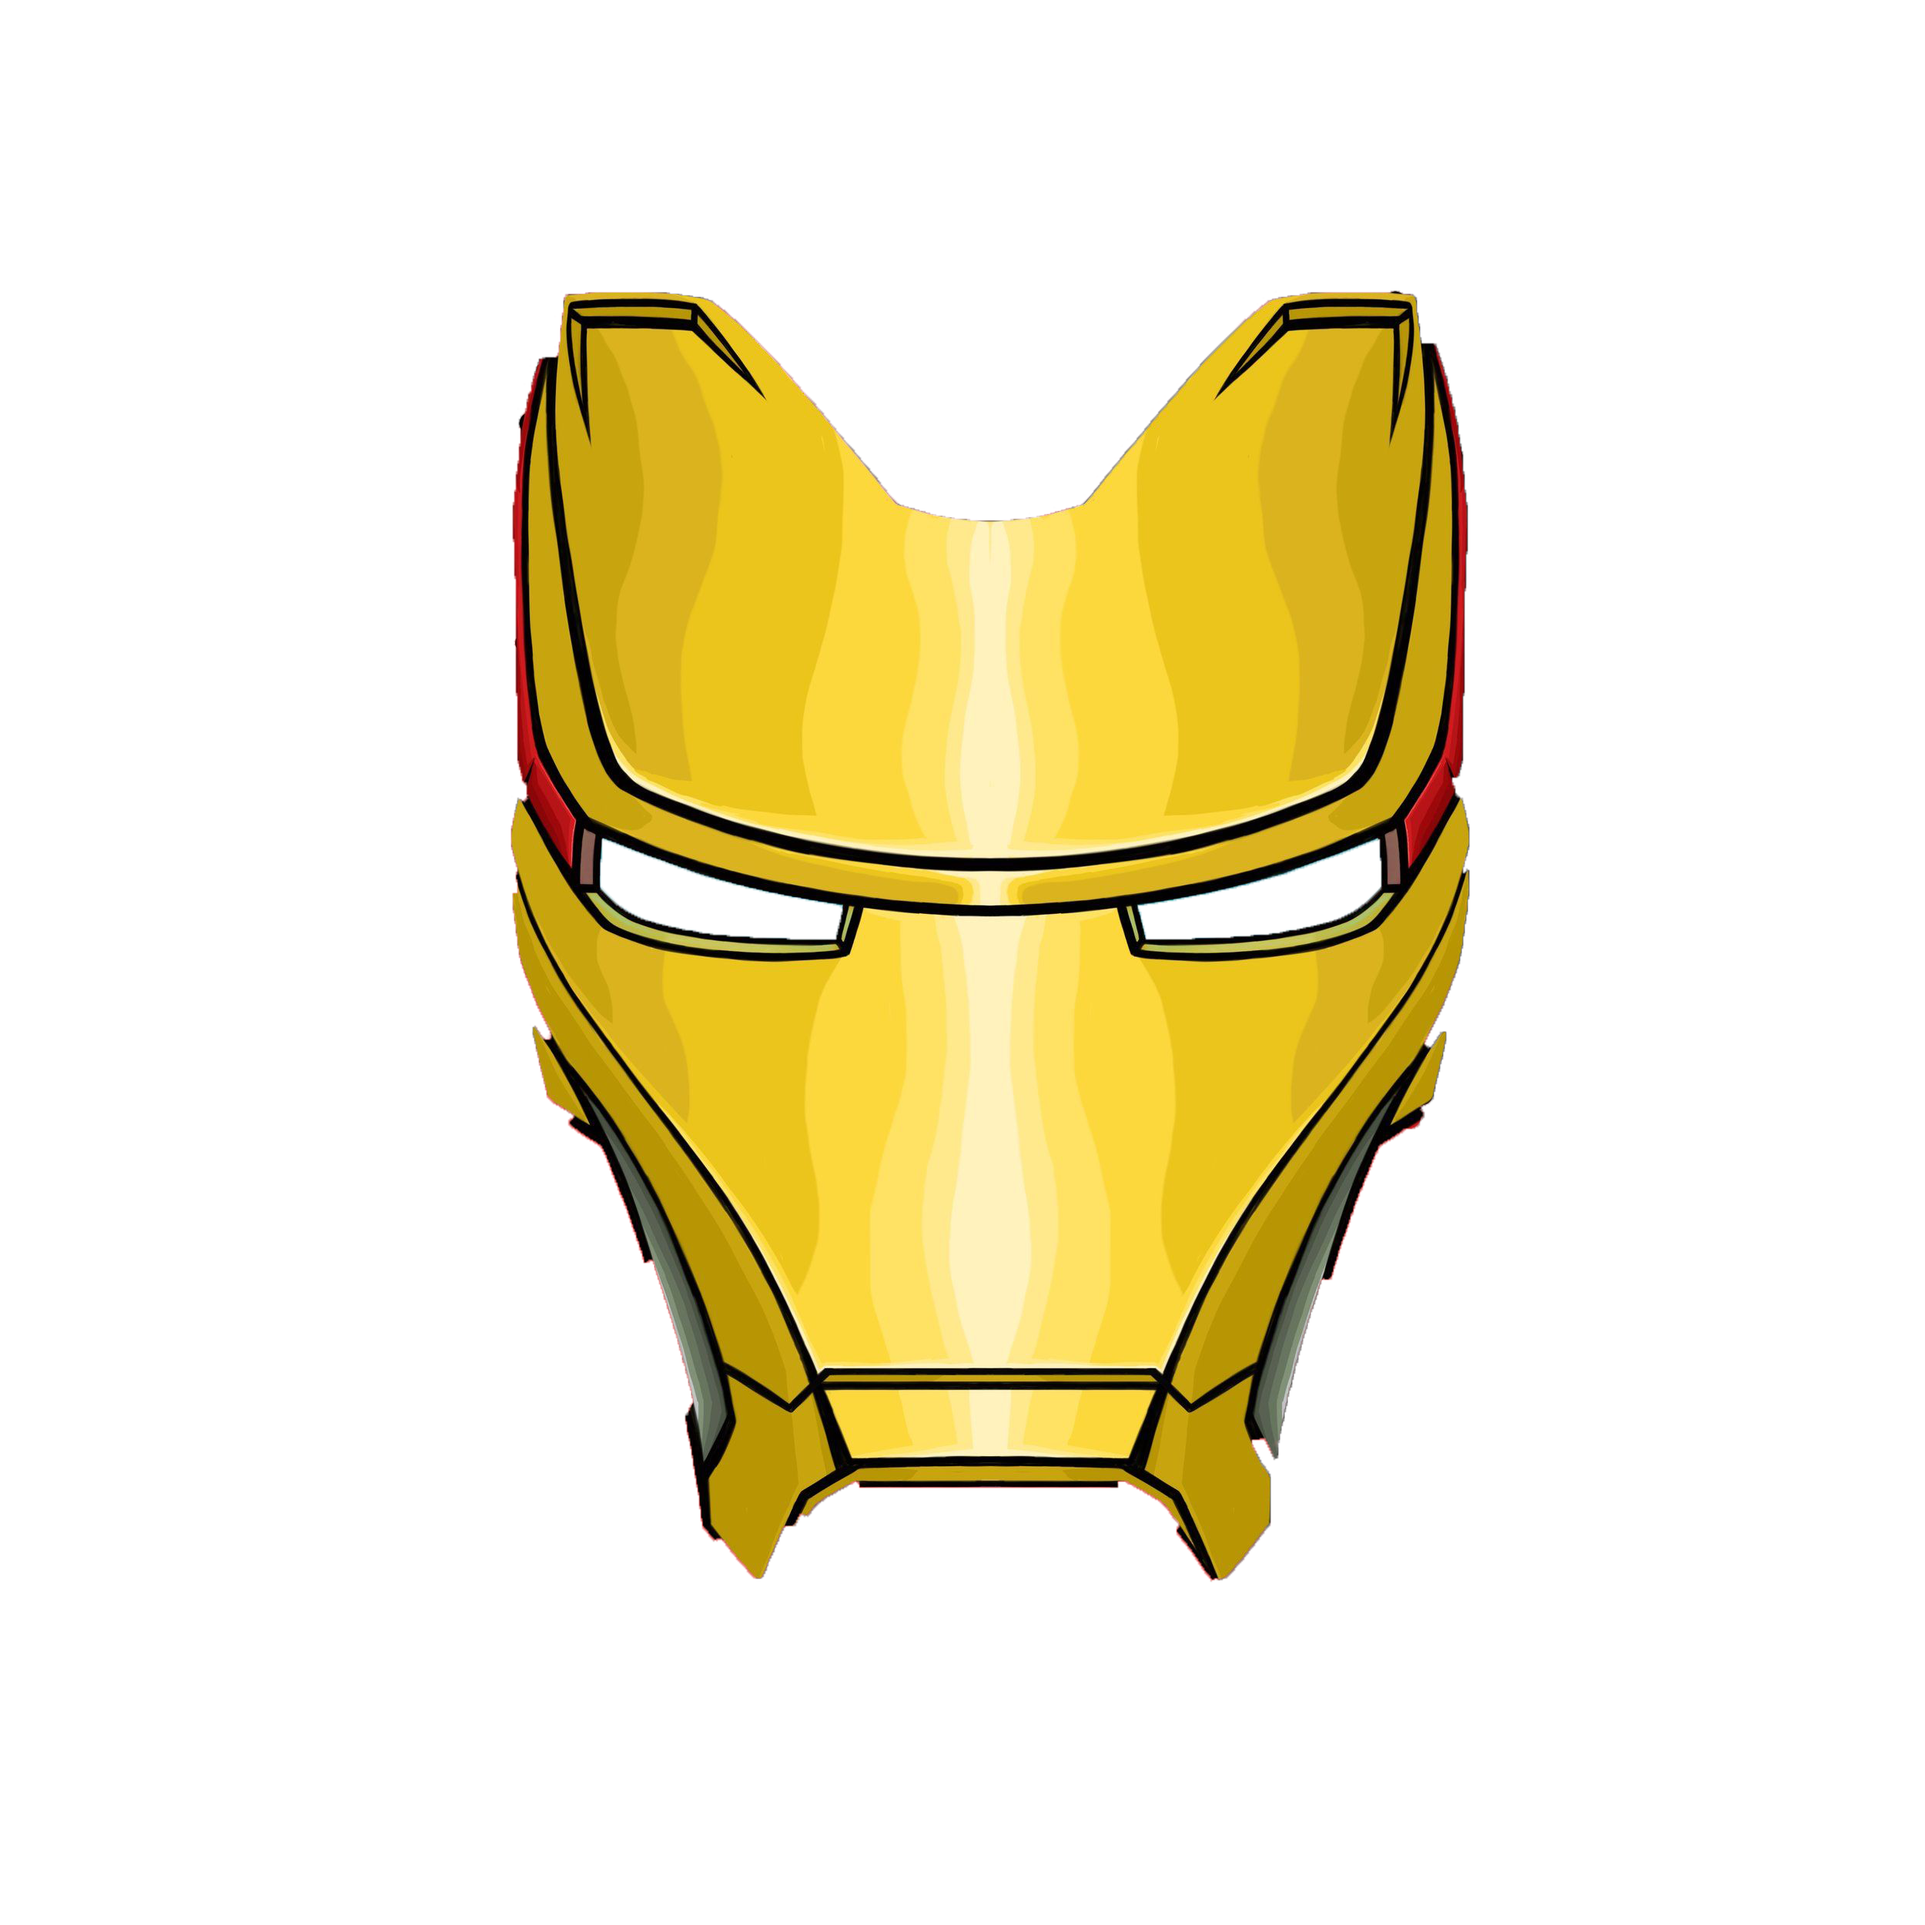
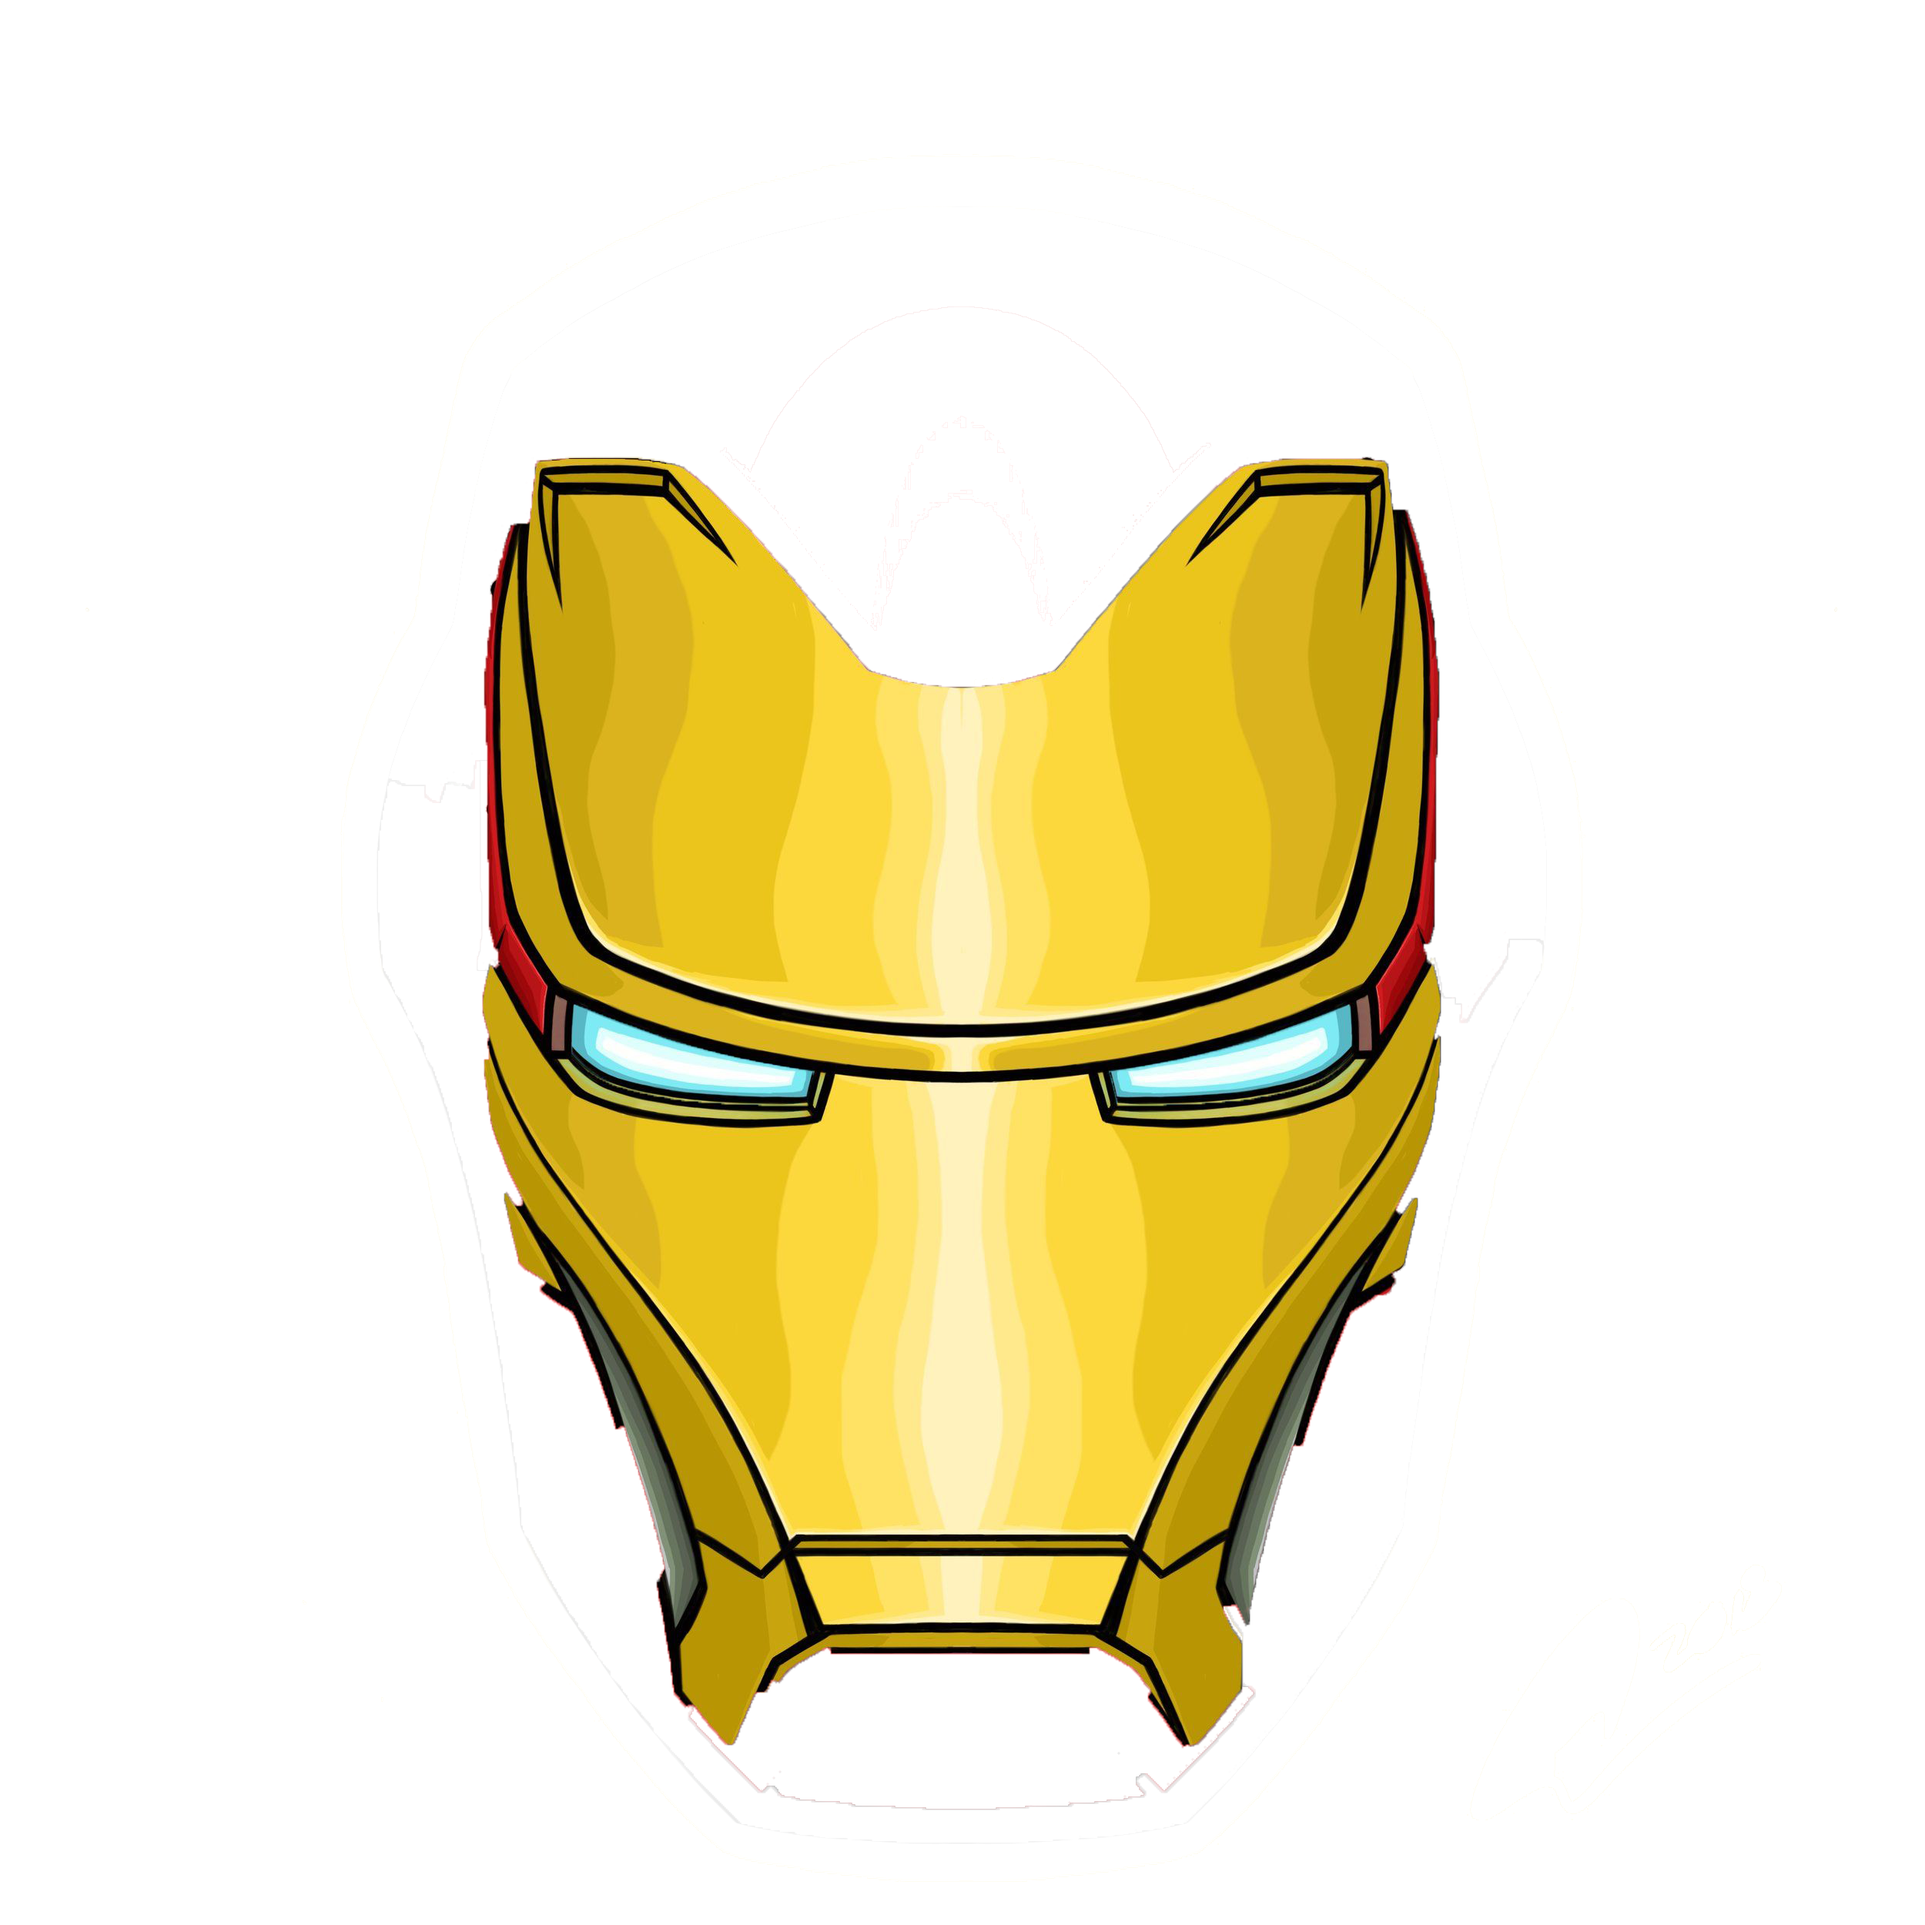
melhorado a aparência com o CSS.

Changed region(s): [[0.2496, 0.1248, 0.78, 0.9048]]

diff --git a/style.css b/style.css
@@ -19,14 +19,15 @@ height: 650px;
 
     width: 670px;
     height: 690px;
+    margin-bottom: 120px;
+    margin-left: 25px;
 
 }
-
 
 @keyframes tirarmascara{
 
     from{margin-top: 80px;}
-    to{margin-bottom: 200px;}
+    to{margin-bottom: 350px;}
 
 }
 
@@ -47,15 +48,55 @@ height: 650px;
     align-items: center;
     justify-content: conter;
     margin-top: 80px;
-    margin-right: 20px ;
+    margin-right: 20px;
 
 }
 
-#filho:hover{
+#filho:active{
 
     animation-name: tirarmascara;
-    animation-iteration-count: infinite;
     animation-duration: 2s;
 
+}
+
+#filho2{
+
+    display: flex;
+    position:absolute;
+    margin-left: 20px;
+    background-color: red;
+    border-radius: 70px;
+    width: 300px;
+    height: 200px;
+
+}
+
+p{
+
+    display: flex;
+    position: absolute;
+    margin-top: 700px;
+    margin-left: 5px;
+    font-size: 25px;
+    font-family: Impact, Haettenschweiler, 'Arial Narrow Bold', sans-serif;
+
+}
+
+#github{
+
+    display: flex;
+    position: absolute;
+    margin-top: 332px;
+    margin-left: 190px;
+    width: 50px;
+    height: 50px;
+    transition: 200ms;
+
+}
+
+#github:hover{
+
+    transform: scale(1.1);
+    cursor: pointer;
 
 }

diff --git a/index.html b/index.html
@@ -6,21 +6,22 @@
     <meta name="viewport" content="width=device-width, initial-scale=1.0">
     <title>Homem De Ferro</title>
     <link rel="stylesheet" href="style.css">
+    <script src="app.js"></script>
 </head>
 <body>
    <div id="pai"> 
 <img src="helmet.png" alt="capacete" id="helmet">
 
-    <div id="filho">
+    <div id="filho" onclick="ativar();">
 
         <img src="mask.png" alt="mascara" id="mask">
-
-
+        
     </div>
-
 </div>
 
 
+        <p>Desenvolvido por: João Victor</p>
+        <img src="githubicon.png" alt="github" onclick="location.href = 'https://github.com/L0rdSaiyan'" id="github" >
 
 
 

diff --git a/app.js b/app.js
@@ -1,0 +1,10 @@
+let filho2 = document.getElementById('filho2')
+
+
+function ativar(){
+
+    let filho2 = document.getElementById('filho2')
+    filho2.style.visibility = 'visible';
+
+
+}
